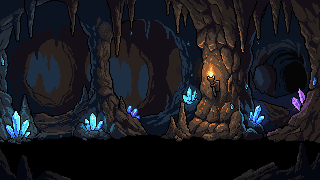
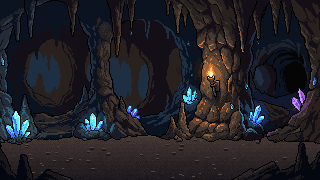
Att fixa: slutscen i värdshuset med uppdragsgivare och föremål, Eva vänd rätt, resestrider på vägen, inga grisar hos rövare, vagn och figurer lägre, glesare vid klyftan, golv i grotta1, streck borta i lägret
Claude-Session: https://claude.ai/code/session_018ajE8D2FggpF2yZQRYB5KY

Changed region(s): [[0.0, 0.75, 1.0, 1.0]]

diff --git a/grafik.js b/grafik.js
@@ -115,8 +115,8 @@ G.ritaScen = (canvas, miljoId, fiender, fro, extra, hjaltar, npcer) => {
   if(extra && String(extra).startsWith("jens")){
     const v = VAGNAR[(Number(String(extra).split(":")[1])||0) % VAGNAR.length];
     const vagn = G.npcBild("jens_vagn");
-    const vx = Math.round((W - v.b)/2), vy = 79 - v.h, reling = vy + v.rel;
-    ctx.fillStyle="#0005"; ctx.fillRect(vx+4, 77, v.b-8, 3);                       // skugga
+    const vx = Math.round((W - v.b)/2), vy = 79 + markNer - v.h, reling = vy + v.rel;
+    ctx.fillStyle="#0005"; ctx.fillRect(vx+4, 77 + markNer, v.b-8, 3);                       // skugga
     const vantar = [];
     if(!(vagn.complete && vagn.naturalWidth)) vantar.push(vagn);
     // sällskapet på flaket: fyra platser mellan bakkanten och Jens
@@ -142,8 +142,10 @@ G.ritaScen = (canvas, miljoId, fiender, fro, extra, hjaltar, npcer) => {
   if(harHjaltar){
     const laddar = [];
     hjaltar.forEach((h,i)=>{
-      const bn = window.BAKGRUND.namn(bgId, fro);
-      const x = (HJ_START[bn] ?? HJ_START[bgId] ?? 2) + i*(HJ_STEG[bn] || HJ_STEG[bgId] || 15), y = 44 + (i%2 ? 4 : 0) + markNer; // fötterna (rad 30 i figuren) hamnar på marken, y 74–78
+      const bn = window.BAKGRUND.namn(bgId, fro), bas = HJ_STEG[bn] || HJ_STEG[bgId];
+      // trånga platser (klyftan, lägret): fyra hjältar står tätt, färre får sprida ut sig på samma yta
+      const steg = bas ? Math.min(15, hjaltar.length > 1 ? Math.max(bas, Math.floor(bas*3/(hjaltar.length-1))) : bas) : 15;
+      const x = (HJ_START[bn] ?? HJ_START[bgId] ?? 2) + i*steg, y = 44 + (i%2 ? 4 : 0) + markNer; // fötterna (rad 30 i figuren) hamnar på marken, y 74–78
       const img = G.figurBild(h.id);
       if(!img){ return; }
       if(!img.complete){ laddar.push(img); return; }
@@ -335,7 +337,7 @@ G.regnLager = (canvas, pa) => {
 
 // Miljöer där marken i den målade bilden ligger längre ner, så att figurerna inte svävar (pixlar i 160×90)
 // (nyckeln kan vara en miljö eller en enskild bild, t.ex. klyfta_ute2)
-const MARK_NER = { arena_tra: 4, arena_tra_tom: 4, arena_sten: 6, arena_sten_tom: 6, basar: 9, port_inne: 6, port_ute: 6, klippa: 6, boss_orch: 5, boss_svartalf: 3, boss_dodasjon: 7, boss_drake: 6, boss_grip: 6, boss_harpyor: 6, tehandeln: 6, vag1: 6, vag2: 6, vag3: 6, vag4: 6, skog3: 6, skog3natt: 6, klyfta_ute: -13, klyfta_ute2: -13, klyfta_inne: -18, klyfta_inne2: -19 };
+const MARK_NER = { grotta7: 5, arena_tra: 4, arena_tra_tom: 4, arena_sten: 6, arena_sten_tom: 6, basar: 9, port_inne: 6, port_ute: 6, klippa: 6, boss_orch: 5, boss_svartalf: 3, boss_dodasjon: 7, boss_drake: 6, boss_grip: 6, boss_harpyor: 6, tehandeln: 6, vag1: 6, vag2: 6, vag3: 6, vag4: 6, skog3: 6, skog3natt: 6, klyfta_ute: -13, klyfta_ute2: -13, klyfta_inne: -18, klyfta_inne2: -19 };
 // Hur tätt hjältarna står (pixlar mellan dem). Vid klyftan står de tätare så att alla får plats på kanten.
 const HJ_STEG = { klyfta_ute: 9, klyfta_inne: 9, lager_ute: 12, lager_inne: 12, lager_inne2: 9 };
 // Var den första hjälten står (x i 160×90). Vid klyftan börjar de längre till vänster så att ingen hamnar över kanten.
@@ -747,7 +749,10 @@ G.ritaPool = (canvas, doda) => {
 };
 
 // ---------- Värdshuset på startsidan: möbler ur npc/mobler.png, värden ur npc/kopman.png ----------
-G.ritaVardshus = (canvas, hjaltar) => {
+// extra (valfritt) = slutscenen efter ett uppdrag: {npc:{ark, ruta, spegel}} = uppdragsgivaren som tar emot sällskapet,
+// {ikon:{ark, ruta}} = uppdragets föremål som ligger på bordet framför Isak
+const IKON_PA_BORD = {x:96, y:52}, UPPDRAGSGIVARE_PLATS = {x:104, y:51};
+G.ritaVardshus = (canvas, hjaltar, extra) => {
   const ctx = canvas.getContext("2d"); const W=160, H=90;
   const R=(x,y,w,h,c)=>{ctx.fillStyle=c;ctx.fillRect(x,y,w,h)};
   // Målad bakgrund (bakgrunder/vardshus2.png, 320×180) med spis, älghuvud, sköld, anslagstavla, bord och bardisk.
@@ -756,15 +761,19 @@ G.ritaVardshus = (canvas, hjaltar) => {
   const tak = G.npcBild("../bakgrunder/vardshus2"), fram = G.npcBild("../bakgrunder/vardshus2_fram");
   const kop = G.npcBild("kopman"), isak = G.npcBild("isak_hel"), vantar=[];
   const klar = img => img.complete && img.naturalWidth;
-  [tak, fram, kop, isak].forEach(i=>{ if(!klar(i)) vantar.push(i); });
+  const npcImg = extra && extra.npc ? G.npcBild(extra.npc.ark) : null, ikonImg = extra && extra.ikon ? G.npcBild(extra.ikon.ark) : null;
+  [tak, fram, kop, isak, npcImg, ikonImg].forEach(i=>{ if(i && !klar(i)) vantar.push(i); });
   canvas.width=W*2; canvas.height=H*2; ctx.imageSmoothingEnabled=false;
-  if(vantar.length){ R(0,0,W*2,H*2,"#2a1a10"); [...new Set(vantar)].forEach(img=>img.addEventListener("load",()=>G.ritaVardshus(canvas,hjaltar),{once:true})); return; }
+  if(vantar.length){ R(0,0,W*2,H*2,"#2a1a10"); [...new Set(vantar)].forEach(img=>img.addEventListener("load",()=>G.ritaVardshus(canvas,hjaltar,extra),{once:true})); return; }
   ctx.drawImage(tak, 0, 0);
   ctx.setTransform(2,0,0,2,0,0);
   // spelledaren Isak sitter på stolen bakom bordet och värdshusvärden står bakom bardisken
   G.ritaRuta(ctx, isak, (new Date().getDate())%64, 78, 38, 32, true);
   G.ritaRuta(ctx, kop, 2, 132, 32, 32, true);
   ctx.setTransform(1,0,0,1,0,0); ctx.drawImage(fram, 0, 0); ctx.setTransform(2,0,0,2,0,0);
+  if(ikonImg) G.ritaRuta(ctx, ikonImg, extra.ikon.ruta, IKON_PA_BORD.x, IKON_PA_BORD.y, 16);
+  if(npcImg){ const n = extra.npc; R(UPPDRAGSGIVARE_PLATS.x+9, UPPDRAGSGIVARE_PLATS.y+30, 14, 2, "#0005");
+    G.ritaRuta(ctx, npcImg, n.ruta, UPPDRAGSGIVARE_PLATS.x, UPPDRAGSGIVARE_PLATS.y, 32, n.spegel !== false); }
   // sällskapet står på golvet till vänster
   const v2 = [];
   (hjaltar||[]).slice(0,4).forEach((h,i)=>{
@@ -776,7 +785,7 @@ G.ritaVardshus = (canvas, hjaltar) => {
   });
   ctx.setTransform(1,0,0,1,0,0);
   G.eldLager(canvas, VARDSHUS_ELDAR);
-  if(v2.length) [...new Set(v2)].forEach(img=>img.addEventListener("load",()=>G.ritaVardshus(canvas,hjaltar),{once:true}));
+  if(v2.length) [...new Set(v2)].forEach(img=>img.addEventListener("load",()=>G.ritaVardshus(canvas,hjaltar,extra),{once:true}));
 };
 
 

diff --git a/spel.js b/spel.js
@@ -482,8 +482,10 @@ function ritaBasar(){
 const GIVARE = {"Porsch Wilson":"porsch","Barden Baror":"baror","Mandor Marvolt":"mandor","Gitte von Gittemberg":"gitte","Lansor":"lansor",
   "Familjen von Borge":"vonborge","Slasbys församling":"hannes","Eva":"eva","Hövding Atlas":"atlas","Clark":"clark",
   "Borgmästaren i Hagbo":"hagbo","Professor Proppeteus":"proppeteus"};
+// Arken tittar åt höger och speglas så att figuren vänder sig mot sällskapet – utom Eva, vars ark redan tittar åt vänster
+const GIVARE_VANSTER = new Set(["givare_eva"]);
 function givare(namn, fro){ const ark = "givare_" + (GIVARE[namn] || "generisk");
-  return {ark, ruta: ark==="givare_vonborge" ? (fro||0) % 8 : (fro||0) % 64}; }
+  return {ark, ruta: ark==="givare_vonborge" ? (fro||0) % 8 : (fro||0) % 64, spegel: !GIVARE_VANSTER.has(ark)}; }
 function fyllTavla(){
   const ids = V.UPPDRAG.map(u=>u.id);
   st.tavla = st.tavla.filter(id=>ids.includes(id));
@@ -572,6 +574,10 @@ const BOSS_BILD = {drake:"boss_drake", grip:"boss_grip", harpydrottning:"boss_ha
   rattkung:"boss_rattkung", general:"boss_general", gravvaktare:"boss_gravvaktare", dendroidmoder:"boss_dendroidmoder", rovarhovding:"boss_rovarhovding"};
 // Bossrum som hör till en plats i stället för en viss boss
 const BOSS_PLATS = {"Döda sjön":"boss_dodasjon"};
+// Bakgrund och frö för ett steg: strider som börjar på resan (t.ex. bakhåll) stannar kvar på vägen
+function stegScen(steg){ const r = st.run;
+  if(steg && steg.typ==="resa") return [resMiljo(r.q.miljo, r.i), steg.fro || r.i*977+13];
+  return [scenMiljo(r.q.miljo, steg), steg && steg.fro || 7]; }
 function scenMiljo(m, steg){
   const r = st.run, p = r && PLATS_BILD[r.q.plats];
   if(r && steg && steg.rumtyp==="boss" && BOSS_PLATS[r.q.plats]) return BOSS_PLATS[r.q.plats];
@@ -806,7 +812,9 @@ function scenNpcer(steg){
   if(m && m.npc) ut.push(m.npc.fiende ? {fiende:m.npc.fiende, ruta:G.fiendeRutor(m.npc.fiende)[0]} : {ark:m.npc.ark, ruta:m.npc.ruta});
   if(m && m.id==="kopman"){ ut.push({ark:"saker_by", ruta:32, spegel:false}); return ut; }
   if(m && m.id==="orter"){ ut.push({ark:"saker_by", ruta:56, spegel:false}); return ut; }
-  if(steg.typ==="resa"){ const fro = r.i*977 + r.q.id.length*31 + (r.start||"").length; ut.push({ark:"djur", ruta:DJUR_RUTOR[fro % DJUR_RUTOR.length], spegel:false}); }
+  if(steg.typ==="resa" && m && m.npc && m.npc.fiende && m.id!=="garvard"){ const rr = G.fiendeRutor(m.npc.fiende); ut.push({fiende:m.npc.fiende, ruta:rr[1] ?? rr[0]}); return ut; }   // t.ex. bakhållet: fler rövare, inga husdjur
+  // husdjur bara bland bönder och vid vägkanten – inte hos gycklare, demoner, professorer och liknande
+  if(steg.typ==="resa" && (!m || (m.npc && m.npc.ark==="by"))){ const fro = r.i*977 + r.q.id.length*31 + (r.start||"").length; ut.push({ark:"djur", ruta:DJUR_RUTOR[fro % DJUR_RUTOR.length], spegel:false}); }
   return ut;
 }
 const antalResa = () => st.run.steg.filter(s=>s.typ==="resa").length;
@@ -1297,11 +1305,12 @@ function ritaStrid(){
   const et = strid.etiketter || [];
   const fiendeVis = strid.fiender.filter(f=>!f.lamnat).map(f=>({...f, visa:true, etikett:et.filter(e=>e.mal==="f:"+f.i)}));
   const hjVis = scenHjaltar(akt).map(h=>({...h, etikett:et.filter(e=>e.mal==="h:"+h.id)}));
-  G.ritaScen($("#scen"), scenMiljo(r.q.miljo, steg), fiendeVis, steg.fro||7, null, hjVis);
+  const [sMiljo, sFro] = stegScen(steg);
+  G.ritaScen($("#scen"), sMiljo, fiendeVis, sFro, null, hjVis);
   G.npcBild("effekter");   // läs in effektarket i förväg
-  if(strid.effekter && strid.effekter.length) spelaEffekter(scenMiljo(r.q.miljo, steg), steg.fro||7, fiendeVis, hjVis);
+  if(strid.effekter && strid.effekter.length) spelaEffekter(sMiljo, sFro, fiendeVis, hjVis);
   if(strid.ornVisa){ const v = strid.ornVisa; strid.ornVisa = null;
-    spelaOrn(t => { const c = $("#scen"); if(c && strid) G.ritaScen(c, scenMiljo(r.q.miljo, steg), fiendeVis, steg.fro||7, null, hjVis.map(h=>h.id==="potus"&&t!=null?{...h, orn:{ruta:v.ruta, t}}:h)); }); }
+    spelaOrn(t => { const c = $("#scen"); if(c && strid) G.ritaScen(c, sMiljo, fiendeVis, sFro, null, hjVis.map(h=>h.id==="potus"&&t!=null?{...h, orn:{ruta:v.ruta, t}}:h)); }); }
   fyllPortratt(app); scrollaLogg();
   app.onclick = e => {
     const b = e.target.closest("button"); if(!b || b.disabled) return;
@@ -1558,9 +1567,12 @@ function ritaSlut(){
       ${Object.entries(u.forb).map(([id,l])=>`<p><b>${esc(HJ[id].namn)}:</b> ${l.length?l.map(x=>`${esc(x.f)} (${x.v}) slog ${x.s} → ${x.upp?`<span style="color:var(--moss)">+1!</span>`:"ingen ändring"}`).join(", "):"inget att slå för"}</p>`).join("")||"<p class='small'>Ingen överlevde för att förbättras.</p>"}</div>
       <button class="btn" data-a="klar">Tillbaka till värdshuset</button>
     </section>${loggHtml()}`;
-  // Vid seger i ett uppdrag (inte utforskning) står uppdragsgivaren vid skatten och tar emot sällskapet
-  const tack = u.lyckat && !r.utforska ? [{...givare(r.q.givare, r.q.id.length*7), x:118, fot:78}] : [];
-  G.ritaScen($("#scen"), scenMiljo(r.q.miljo), [], 99, u.lyckat?"skatt":null, scenHjaltar(), tack);
+  // Vid seger i ett uppdrag (inte utforskning) slutar det där det började: i värdshuset, där uppdragsgivaren
+  // tar emot sällskapet och uppdragets föremål ligger på bordet. Annars står sällskapet kvar på platsen.
+  if(u.lyckat && !r.utforska){
+    const ik = UPPDRAG_IKON[r.q.id], [ia, ir] = ik ? ik.split(":") : [];
+    G.ritaVardshus($("#scen"), scenHjaltar().filter(h=>!rh(h.id).dod), {npc:givare(r.q.givare, r.q.id.length*7), ikon: ik ? {ark:IKONARK[ia], ruta:Number(ir)} : null});
+  } else G.ritaScen($("#scen"), scenMiljo(r.q.miljo), [], 99, u.lyckat?"skatt":null, scenHjaltar());
   fyllIkoner(app);
   scrollaLogg();
   app.onclick = e => { const b=e.target.closest("[data-a]"); if(b && b.dataset.a==="klar"){ st.run=null; spara(); ga("hem"); } };

diff --git a/sw.js b/sw.js
@@ -1,7 +1,7 @@
 // Fantasyvärlden – service worker.
 // Egna filer: nätet först (så uppdateringar syns direkt), cachen som reserv när man är offline.
 // GitHub-API:t (sparfilen) cachas aldrig.
-const CACHE = "fantasyvarlden-v85";
+const CACHE = "fantasyvarlden-v86";
 const SHELL = ["./","./index.html","./spel.js","./regler.js","./varld.js","./hjaltar.js","./figurer.js","./fiendebilder.js","./bakgrund.js","./grafik.js","./manifest.json","./icons/icon-180.png","./icons/icon-192.png","./icons/icon-512.png"];
 self.addEventListener("install", e => { e.waitUntil(caches.open(CACHE).then(c => c.addAll(SHELL)).then(() => self.skipWaiting())); });
 self.addEventListener("activate", e => { e.waitUntil(caches.keys().then(k => Promise.all(k.filter(x => x !== CACHE).map(x => caches.delete(x)))).then(() => self.clients.claim())); });
